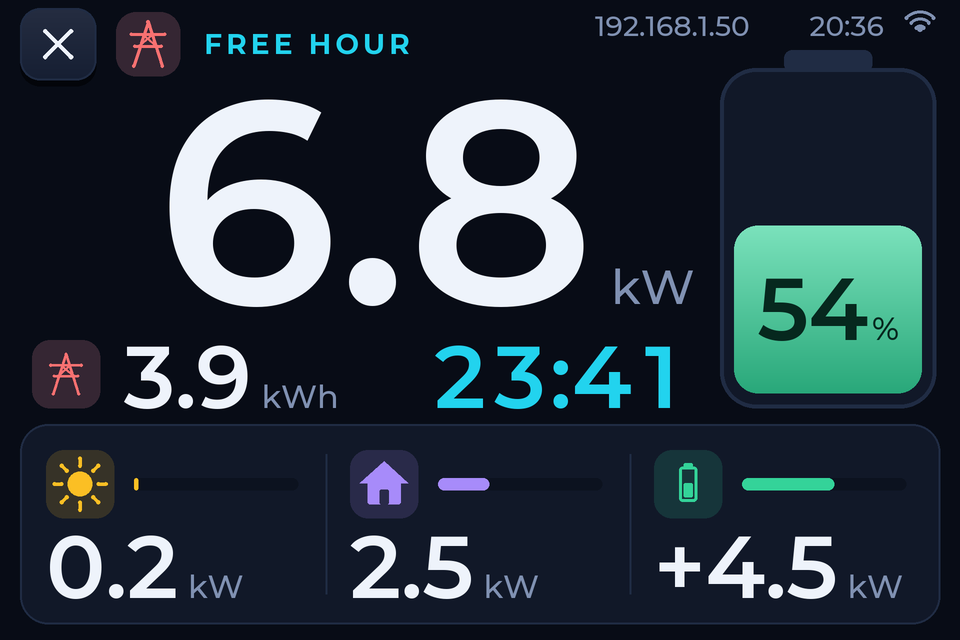
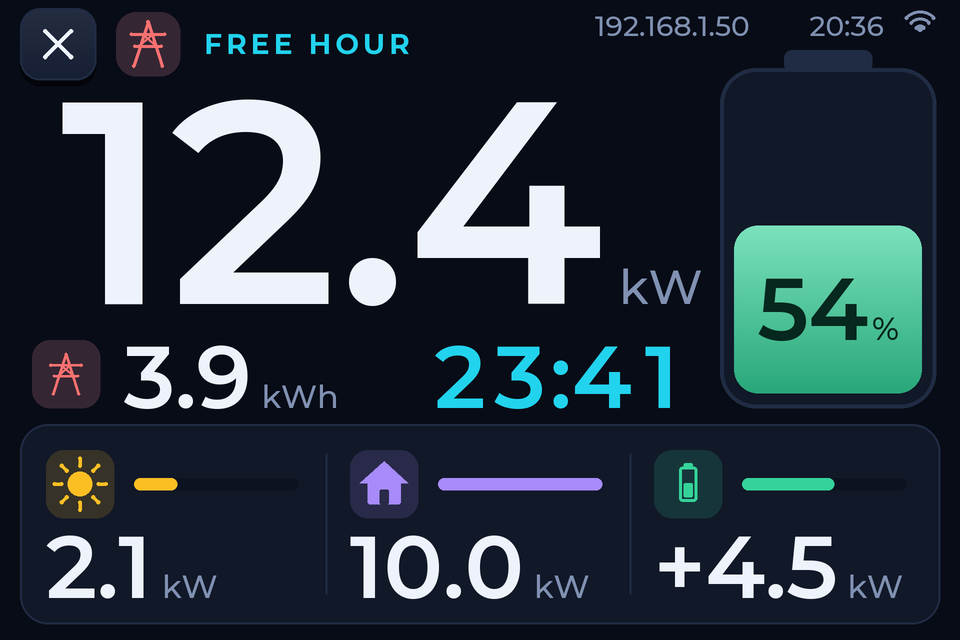
image chage

diff --git a/tools/mockups/dashboard.py b/tools/mockups/dashboard.py
@@ -342,9 +342,9 @@ if __name__ == "__main__":
     os.makedirs(out, exist_ok=True)
     P = lambda n: os.path.join(out, n)
     day = dict(pv=4.2, grid=-1.3, ess=0.5, soc=76, clock="14:20")
-    charge = dict(pv=4.2, grid=1.7, ess=3.5, soc=100, clock="14:20")
+    charge = dict(pv=4.2, grid=1.7, ess=3.5, soc=78, clock="14:20")
     night = dict(pv=0.0, grid=1.2, ess=0.0, soc=45, clock="22:15")
-    free = dict(pv=0.2, grid=6.8, ess=4.5, soc=54, clock="20:36", left_s=23 * 60 + 41)
+    free = dict(pv=2.1, grid=12.4, ess=4.5, soc=54, clock="20:36", left_s=23 * 60 + 41)
     files = [P(n) for n in ("home.png", "home-charge-on.png", "home-offpeak.png", "home-widest.png",
                             "free-hour.png", "free-hour-widest.png", "free-hour-summary.png")]
     home_screen(files[0], **day)
